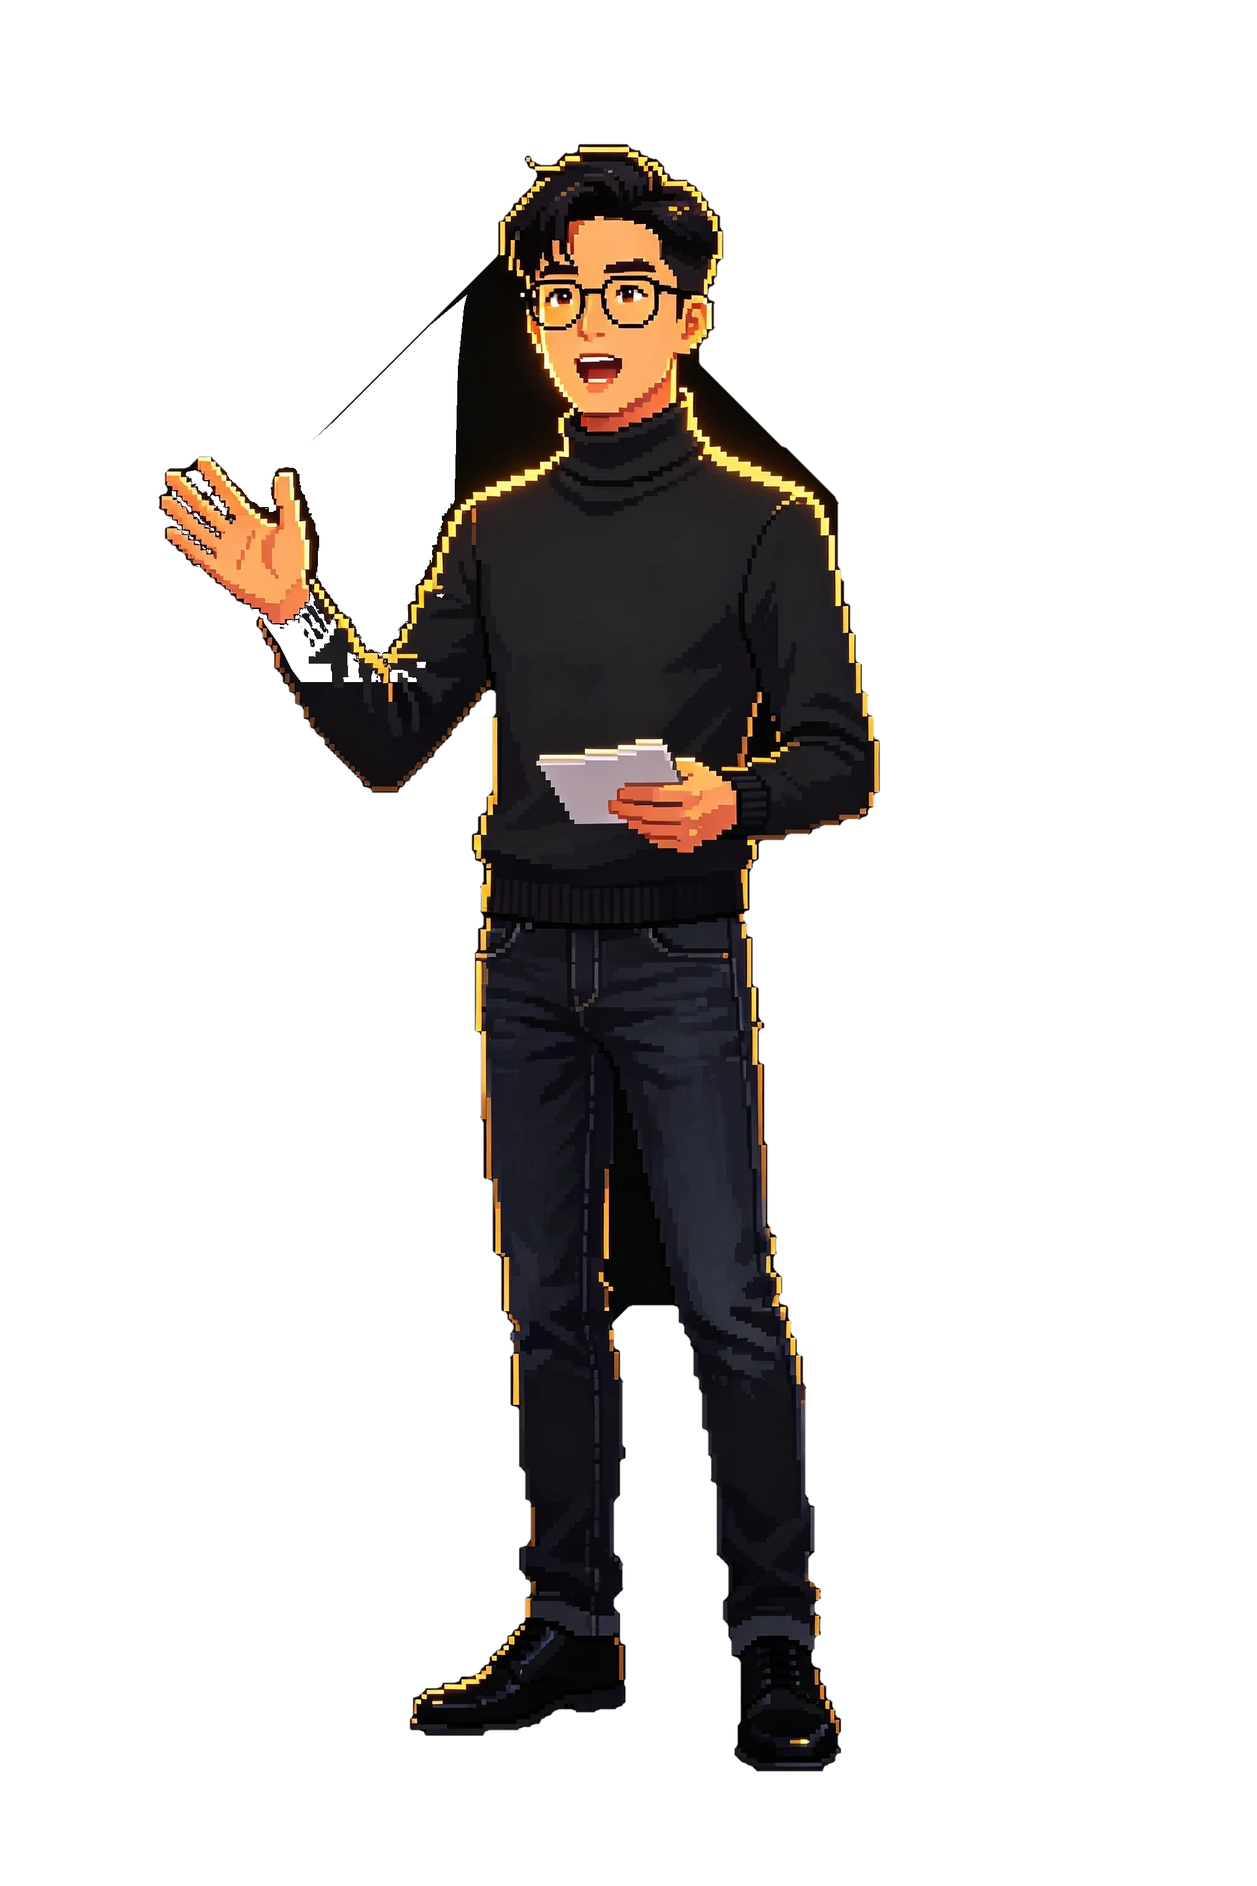
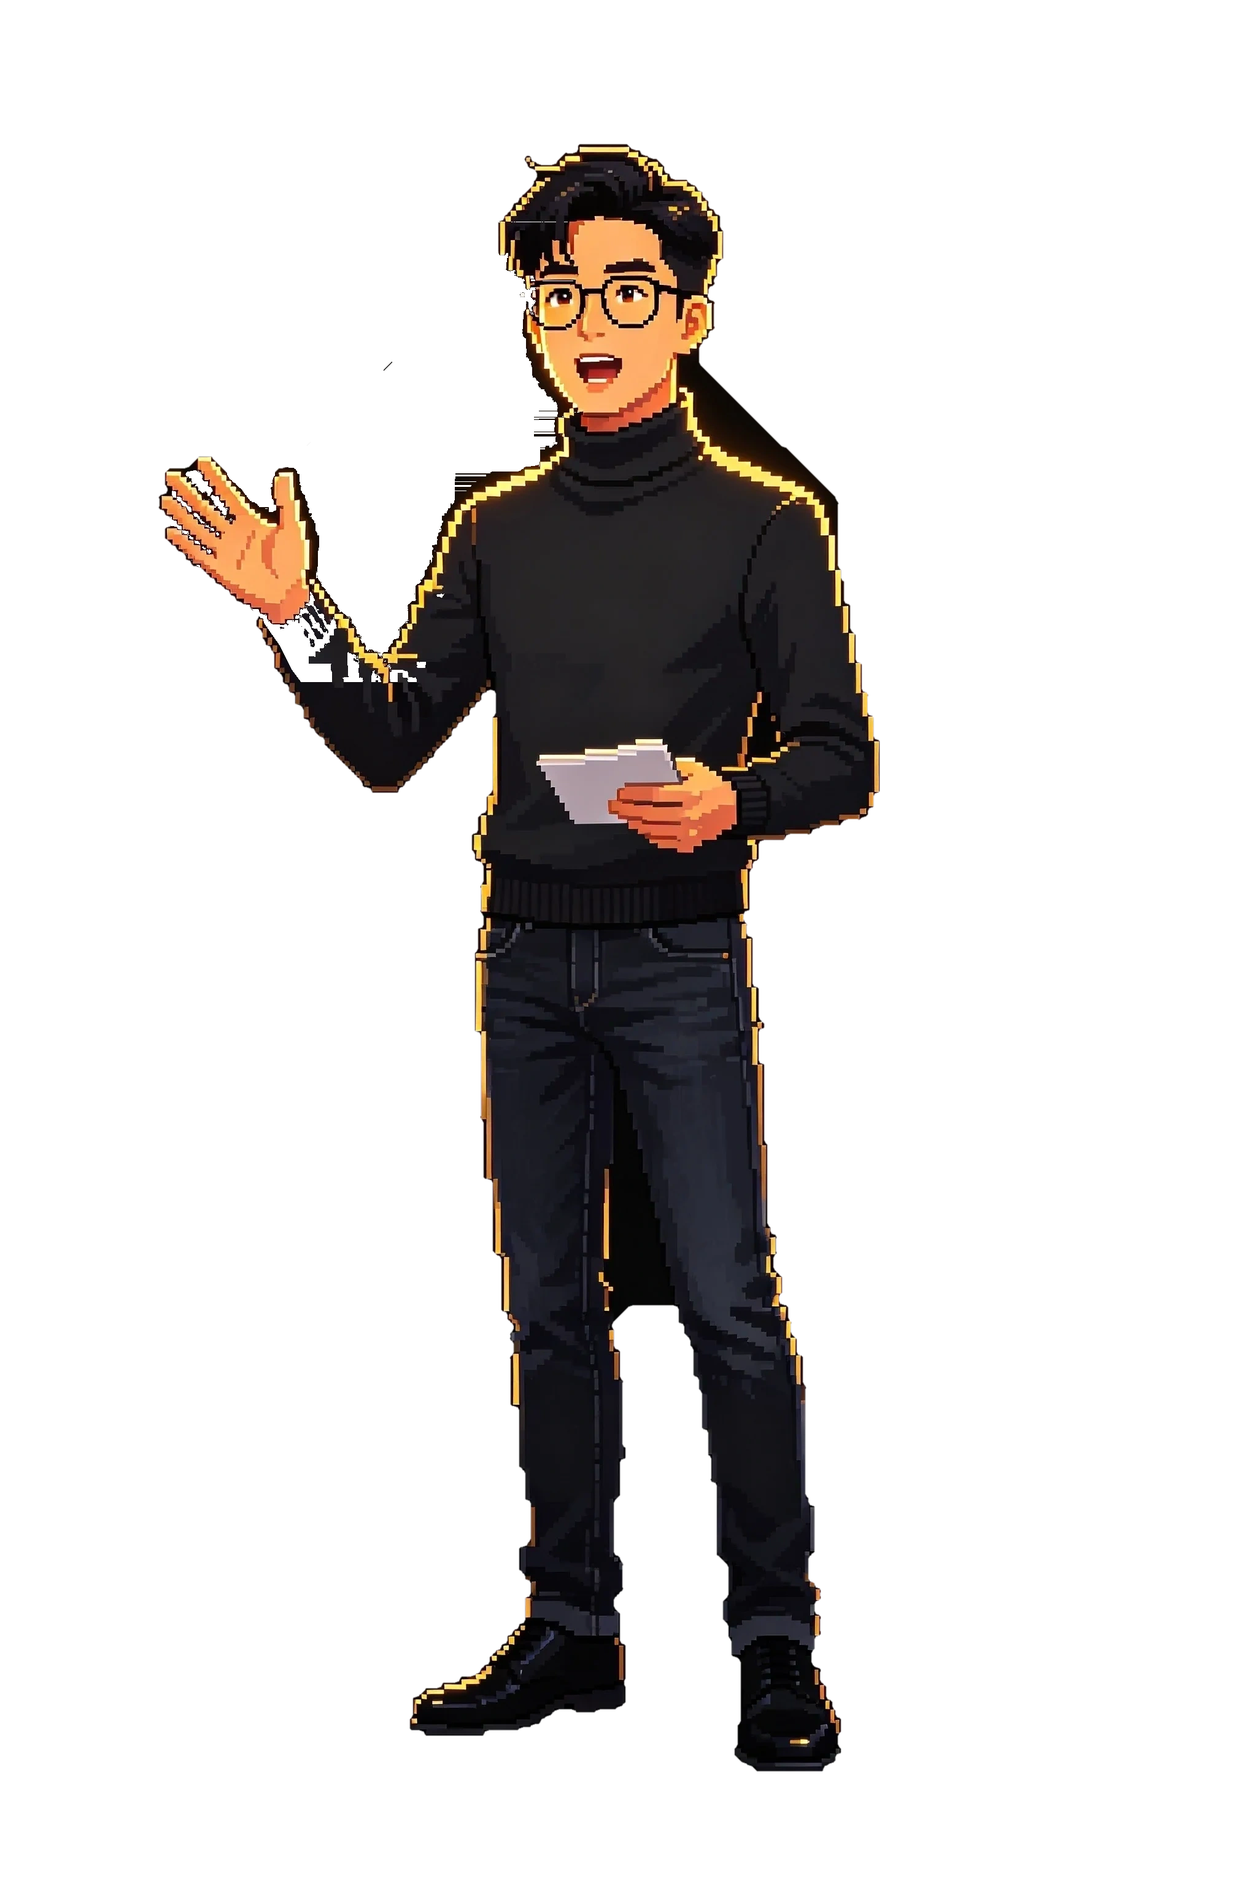
feat: R46 场景视觉多样性——2新场景接线5节点+教师立绘三段过渡+选择关键路径性能+6亿砸地防重入

Changed region(s): [[0.3438, 0.125, 0.4375, 0.25]]

diff --git a/src/scenes/GameScene.js b/src/scenes/GameScene.js
@@ -82,6 +82,10 @@ export class GameScene extends Phaser.Scene {
     street_day:  { tint: 0xffe8c0, tintAlpha: 0.06, rimColor: 0xffcc66, rimAlpha: 0.10, shadowColor: 0x2a1a0a, shadowAlpha: 0.25, shadowScale: 0.9, warmOverlay: 0.04 },
     // 场景变体：巨型体育馆（深蓝夜色+金色舞台光）
     stage_arena: { tint: 0xffc870, tintAlpha: 0.12, rimColor: 0xffaa33, rimAlpha: 0.20, shadowColor: 0x0a0600, shadowAlpha: 0.40, shadowScale: 0.7, warmOverlay: 0.08 },
+    // 场景变体：深夜教室（冷蓝月色，比 classroom 更冷更暗）
+    classroom_night: { tint: 0x8aa0cc, tintAlpha: 0.10, rimColor: 0x6688cc, rimAlpha: 0.12, shadowColor: 0x04060e, shadowAlpha: 0.38, shadowScale: 0.85, warmOverlay: 0.0 },
+    // 场景变体：白天办公室（明亮冷白天光）
+    office_day:  { tint: 0xe8ecf0, tintAlpha: 0.05, rimColor: 0xaaccee, rimAlpha: 0.08, shadowColor: 0x10141c, shadowAlpha: 0.22, shadowScale: 0.9, warmOverlay: 0.02 },
     stage:       { tint: 0xffc870, tintAlpha: 0.12, rimColor: 0xffaa33, rimAlpha: 0.20, shadowColor: 0x0a0600, shadowAlpha: 0.40, shadowScale: 0.7, warmOverlay: 0.08 },
     livestream:  { tint: 0xf0f4ff, tintAlpha: 0.06, rimColor: 0x88ccff, rimAlpha: 0.12, shadowColor: 0x0a0a1a, shadowAlpha: 0.25, shadowScale: 0.9, warmOverlay: 0.03 },
     lab:         { tint: 0xd8e4f0, tintAlpha: 0.04, rimColor: 0x77aadd, rimAlpha: 0.07, shadowColor: 0x081018, shadowAlpha: 0.25, shadowScale: 0.9, warmOverlay: 0.0 },
@@ -229,15 +233,26 @@ export class GameScene extends Phaser.Scene {
     // 2. 直播场景固定立绘
     if (node.sceneType === 'livestream') return 'livestream';
     // 3. 阶段推断：简化版（不查 state，仅按节点 ID 归属阶段）
+    // teacher 阶段不做年龄覆盖（与 _inferMood 三段逻辑一致，用场景姿态即黑毛衣青年组）
     const stage = getStageByNodeId(nodeId);
     if (stage) {
-      const earlyStages = new Set(['youth', 'teacher']);
+      const earlyStages = new Set(['youth']);
       const middleStages = new Set(['startup', 'dark', 'repay', 'reborn']);
       if (earlyStages.has(stage.id)) return 'young';
       if (middleStages.has(stage.id)) return 'middle';
     }
-    // 4. 默认 standing
-    return 'standing';
+    // 4. 与 _renderNode 的 poseMap 保持一致，避免预读姿态与实际渲染姿态错位
+    const poseMap = {
+      'classroom': 'sitting', 'lecture': 'speaking', 'office': 'sitting',
+      'stage': 'speaking', 'livestream': 'sitting', 'lab': 'standing',
+      'podcast': 'sitting', 'street': 'standing', 'ending': 'standing',
+      'fridge_smash': 'angry', 'talkshow': 'speaking', 'court': 'standing',
+      'office_empty': 'sitting', 'office_dark': 'sitting', 'street_night': 'standing',
+      'office_busy': 'sitting', 'livestream_first': 'sitting',
+      'street_day': 'standing', 'stage_arena': 'speaking',
+      'classroom_night': 'sitting', 'office_day': 'sitting'
+    };
+    return poseMap[node.sceneType] || 'standing';
   }
 
   init(data) {
@@ -937,7 +952,8 @@ export class GameScene extends Phaser.Scene {
       // 场景变体沿用基础场景的姿态
       'office_empty': 'sitting', 'office_dark': 'sitting', 'street_night': 'standing',
       'office_busy': 'sitting', 'livestream_first': 'sitting',
-      'street_day': 'standing', 'stage_arena': 'speaking'
+      'street_day': 'standing', 'stage_arena': 'speaking',
+      'classroom_night': 'sitting', 'office_day': 'sitting'
     };
     const pose = poseMap[node.sceneType] || 'standing';
     const mood = this._inferMood(node);
@@ -1229,8 +1245,11 @@ export class GameScene extends Phaser.Scene {
     // 白闪后 100ms，红色巨号数字从屏幕顶部砸下，落地触发"砸地震波"四维冲击
     if (nodeId === 'act6_night') {
       this.time.delayedCall(100, () => {
+        // 防御：清理可能的残留元素（scene 异常重启/DOM 未随 shutdown 清理时避免数字叠加）
+        document.querySelectorAll('[data-killer-moment], .ui-killer-moment-ring').forEach(el => el.remove());
         const numEl = document.createElement('div');
         numEl.className = 'ui-killer-moment-number';
+        numEl.setAttribute('data-killer-moment', 'debt-600m'); // 回归测试可定位标识
         numEl.textContent = '¥600,000,000';
         numEl.style.cssText = [
           'position:fixed', 'top:-120px', 'left:50%',
@@ -1293,8 +1312,8 @@ export class GameScene extends Phaser.Scene {
           });
         });
 
-        // 落地后 1.5s 淡出移除（从落地时刻算起，即 500ms + 1500ms = 2000ms）
-        this.time.delayedCall(2000, () => {
+        // 落地后悬停 2.5s 再淡出（评委 10 分钟演示内可充分看清数字；从落地时刻算起，即 500ms + 2500ms = 3000ms）
+        this.time.delayedCall(3000, () => {
           if (!numEl.parentNode) return;
           numEl.style.transition = 'opacity 0.3s';
           numEl.style.opacity = '0';
@@ -1880,11 +1899,13 @@ export class GameScene extends Phaser.Scene {
     // 2. 直播/卖货场景固定使用直播立绘
     if (node.sceneType === 'livestream') return 'livestream';
 
-    // 3. 根据阶段推断年龄立绘：早期用 young，中后期用 middle
+    // 3. 根据阶段推断年龄立绘：youth 少年 → teacher 黑毛衣青年（默认 pose 组）→ startup+ 中年
     const stage = getStageByNodeId(this.state.currentNode);
     if (stage) {
-      // startup(锤子科技 2012-2018) 主角已 40+ 岁，应归中年组，原归入 earlyStages 会导致该阶段全程显示少年立绘
-      const earlyStages = new Set(['youth', 'teacher']);
+      // 三段年龄过渡：youth 用 young 少年立绘；
+      // teacher 不做年龄覆盖（落到场景 poseMap/情绪姿态，即黑毛衣青年组，作为少年→中年的过渡）；
+      // startup(锤子科技 2012-2018) 及之后主角已 40+ 岁，用 middle 中年立绘
+      const earlyStages = new Set(['youth']);
       const middleStages = new Set(['startup', 'dark', 'repay', 'reborn']);
       if (earlyStages.has(stage.id)) {
         // 年轻阶段：如果没有显式 mood 覆盖情绪，用 young 立绘

diff --git a/src/systems/ChoiceSystem.js b/src/systems/ChoiceSystem.js
@@ -239,6 +239,9 @@ export class ChoiceSystem {
       window.addEventListener('resize', this._resizeHandler);
     }
 
+    // 缓存本轮按钮引用，避免 click/keydown 处理器中重复 querySelectorAll（点击响应关键路径优化）
+    this._currentBtns = [];
+
     choices.forEach((choice, i) => {
       const state = this.scene.state || {};
       const { locked, hint: lockHint } = this._getChoiceLock(choice, state, choices);
@@ -299,11 +302,15 @@ export class ChoiceSystem {
           }
           if (this._choiceLock) return;
           this._choiceLock = true;
-          this.el.querySelectorAll('.ui-choice-btn').forEach(b => b.disabled = true);
+          // 关键反馈同步完成（<16ms）：禁用全部按钮 + 选中锁定态 + 触感震动
+          this._currentBtns.forEach(b => b.disabled = true);
           this._markSelected(btn);
-          this._createRipple(btn, event);
           if (this.scene && typeof this.scene.vibrate === 'function') this.scene.vibrate(20);
-          this._triggerChoiceFlash();
+          // 非关键视觉反馈（水波纹/全屏闪光）推迟到下一帧，不阻塞关键路径
+          requestAnimationFrame(() => {
+            this._createRipple(btn, event);
+            this._triggerChoiceFlash();
+          });
           if (onChoice) onChoice(choice);
         });
 
@@ -351,6 +358,7 @@ export class ChoiceSystem {
       }
 
       this.el.appendChild(btn);
+      this._currentBtns.push(btn);
     });
 
     // 数字键快捷选择（1-9）— 与 A 自动播放、S 速度切换等全局快捷键解耦
@@ -369,11 +377,11 @@ export class ChoiceSystem {
         const { locked } = this._getChoiceLock(c, state, choices);
         if (!locked && onChoice) {
           this._choiceLock = true;
-          this.el.querySelectorAll('.ui-choice-btn').forEach(b => b.disabled = true);
-          const _selectedBtn = this.el.querySelectorAll('.ui-choice-btn')[idx];
+          this._currentBtns.forEach(b => b.disabled = true);
+          const _selectedBtn = this._currentBtns[idx];
           if (_selectedBtn) this._markSelected(_selectedBtn);
-          this._triggerChoiceFlash();
           if (this.scene && typeof this.scene.vibrate === 'function') this.scene.vibrate(20);
+          requestAnimationFrame(() => this._triggerChoiceFlash());
           onChoice(c);
         }
       }
@@ -524,7 +532,10 @@ export class ChoiceSystem {
    * @param {HTMLElement} selectedBtn 被选中的按钮元素
    */
   _markSelected(selectedBtn) {
-    const allBtns = this.el.querySelectorAll('.ui-choice-btn');
+    // 优先用缓存的按钮引用（避免重复 querySelectorAll），缓存不可用时兜底查询
+    const allBtns = (this._currentBtns && this._currentBtns.length)
+      ? this._currentBtns
+      : this.el.querySelectorAll('.ui-choice-btn');
     allBtns.forEach(b => {
       if (b === selectedBtn) {
         b.classList.add('selected');
@@ -555,6 +566,7 @@ export class ChoiceSystem {
       this._leaveTimer = null;
       this.el.classList.remove('visible', 'leaving');
       this.el.innerHTML = '';
+      this._currentBtns = [];
       if (this.scene.dialog && this.scene.dialog.notifyChoicesVisible) {
         this.scene.dialog.notifyChoicesVisible(false);
       }

diff --git a/src/config.js b/src/config.js
@@ -158,7 +158,9 @@ export const SCENE_TYPES = {
   OFFICE_BUSY: 'office_busy',       // 白天忙碌创业办公室（创业上升期）
   LIVESTREAM_FIRST: 'livestream_first', // 首播简陋直播间（首播青涩期）
   STREET_DAY: 'street_day',         // 90年代小城白天老街（延边摆摊期）
-  STAGE_ARENA: 'stage_arena'        // 巨型体育馆（鸟巢TNT发布会）
+  STAGE_ARENA: 'stage_arena',       // 巨型体育馆（鸟巢TNT发布会）
+  CLASSROOM_NIGHT: 'classroom_night', // 深夜教室（苦学/夜读期）
+  OFFICE_DAY: 'office_day'          // 白天明亮办公室（新东方/日常办公期）
 };
 
 /**
@@ -188,6 +190,8 @@ export const SCENE_ASSETS = [
   { key: 'bg-livestream_first', url: 'assets/characters/scene-livestream_first-v2.webp', type: 'livestream_first' },
   { key: 'bg-street_day',    url: 'assets/characters/scene-street_day-v2.webp',    type: 'street_day' },
   { key: 'bg-stage_arena',   url: 'assets/characters/scene-stage_arena-v2.webp',   type: 'stage_arena' },
+  { key: 'bg-classroom_night', url: 'assets/characters/scene-classroom_night-v2.webp', type: 'classroom_night' },
+  { key: 'bg-office_day',    url: 'assets/characters/scene-office_day-v2.webp',    type: 'office_day' },
   // 结局专属插图
   { key: 'bg-ending-legend',   url: 'assets/characters/ending-legend-v2.webp',   type: 'ending-legend' },
   { key: 'bg-ending-phoenix',  url: 'assets/characters/ending-phoenix-v2.webp',  type: 'ending-phoenix' },

diff --git a/src/data/story/11_act8.js b/src/data/story/11_act8.js
@@ -32,7 +32,7 @@ export const NODES = {
   act8_team_build: {
     act: '第十八章',
     actSub: '组建AR团队 · 从零开始 2022',
-    sceneType: SCENE_TYPES.OFFICE,
+    sceneType: SCENE_TYPES.OFFICE_DAY,
     character: '老罗',
     text: `你开始组建AR团队。但这次跟锤子不一样——你没有从粉丝里拉人，而是从大厂挖人。你挖来了前苹果的工程师、前Meta的AR研究员、前华为的光学专家。每次面试你都会问同一个问题："你相信AR是未来吗？"如果对方犹豫，你就不要。你要的是信徒，不是员工。有人劝你："老罗，你这是在组建宗教，不是公司。"你说："<b>改变世界的事，不信的人做不了。</b>"团队从5个人慢慢扩展到50个人，办公室从一间小会议室搬到了整层楼，白板上写满了技术方案，工位上堆满了原型机和测试设备。你看着这群人，心想：这一次，我不能再让他们失望了。但"这一次"这三个字，你已经说了太多次了——每一次说的时候你都信，每一次信的时候你都输。你开始害怕的不是失败本身，而是"再一次"这个前缀：再一次让相信你的人失望，再一次亲手签下裁员名单，再一次在深夜的办公室里对着天花板发呆。`,
     choices: [

diff --git a/src/data/story/10_act7.js b/src/data/story/10_act7.js
@@ -165,7 +165,7 @@ export const NODES = {
   act7_contract: {
     act: '第十七章',
     actSub: '签约抖音 · 谈判过程 2020',
-    sceneType: SCENE_TYPES.OFFICE,
+    sceneType: SCENE_TYPES.OFFICE_DAY,
     character: '老罗',
     text: `抖音团队的谈判代表坐在你对面，西装笔挺，笑容职业。他们开出的条件很诱人：签约费6000万，这是抖音有史以来给直播主播开出的最高价。但条件也很明确——你必须独家在抖音直播，每周至少3场，每场不少于3小时。你看着合同上的数字，心里五味杂陈。从做手机到卖货，这落差比延边到北京还大。你的律师在旁边小声说："条款没问题，签吧。"你拿起笔，手悬在半空——这一签，你就从"罗老师"变成"罗主播"了。名字只差一个字，但人生的落差是整个太平洋。但你又想：名字变了又怎样？人还是那个人。<b>能弯下腰的人，才站得起来。</b>况且，这6000万不是给你的，是给那6亿债务的——每一分钱都是一块砖，帮你把压在身上的山一块一块搬走。你深吸一口气，笔尖落在了纸上。`,
     choices: [

diff --git a/index.html b/index.html
@@ -1499,6 +1499,20 @@
       color: var(--color-gold);
     }
 
+    /* 固定按钮防溢出：统一 border-box 盒模型 + 内容裁剪；
+       图标按钮清除浏览器默认 padding，确保 44×44 热区内文字/图标不溢出 */
+    .ui-sound-toggle,
+    .ui-menu-toggle,
+    .ui-narration-toggle,
+    .ui-voice-toggle {
+      box-sizing: border-box;
+      overflow: hidden;
+    }
+    .ui-sound-toggle,
+    .ui-menu-toggle {
+      padding: 0;
+    }
+
     /* === Talent Selection === */
     .ui-talent-overlay {
       position: fixed;
@@ -5885,7 +5899,7 @@
         <div class="ui-intro-line" id="ui-intro-line2"></div>
         <div class="ui-intro-line" id="ui-intro-line3"></div>
       </div>
-      <div class="ui-intro-skip-hint" id="ui-intro-skip-hint">点击任意处继续 · 按空格跳过</div>
+      <div class="ui-intro-skip-hint" id="ui-intro-skip-hint">点击任意处或按空格跳过</div>
       <div class="ui-intro-fade" id="ui-intro-fade"></div>
     </div>
 

diff --git a/src/systems/PixelRenderer.js b/src/systems/PixelRenderer.js
@@ -67,7 +67,8 @@ const SCENE_PARTICLE_MODES = {
   classroom: 'dust', lecture: 'dust', podcast: 'dust', ending: 'sparkle',
   office: 'dust_dim', office_empty: 'dust_dim', lab: 'dust_dim', court: 'dust_dim',
   street: 'dust_dim', street_night: 'dust_dim',
-  office_busy: 'dust_bright', street_day: 'dust_bright',
+  office_busy: 'dust_bright', street_day: 'dust_bright', office_day: 'dust_bright',
+  classroom_night: 'dust_dim',
   office_dark: 'rain',
   stage: 'sparkle', stage_arena: 'sparkle', talkshow: 'sparkle', fridge_smash: 'sparkle',
   livestream: 'float_side', livestream_first: 'float_side'
@@ -713,7 +714,9 @@ export class PixelRenderer {
       office_busy: 'bg-office_busy',
       livestream_first: 'bg-livestream_first',
       street_day: 'bg-street_day',
-      stage_arena: 'bg-stage_arena'
+      stage_arena: 'bg-stage_arena',
+      classroom_night: 'bg-classroom_night',
+      office_day: 'bg-office_day'
     };
 
     // 1. 检查预加载纹理

diff --git a/src/data/story/8_act5.js b/src/data/story/8_act5.js
@@ -139,7 +139,7 @@ export const NODES = {
   act5_chengdu: {
     act: '第十三章',
     actSub: '成都10亿融资 · 迁总部的抉择 2017',
-    sceneType: SCENE_TYPES.OFFICE,
+    sceneType: SCENE_TYPES.OFFICE_DAY,
     character: '小罗',
     text: `成都市政府伸出橄榄枝：10亿融资，条件是总部迁到成都。10亿——这笔钱足够你做TNT，做你想做的任何产品。\n\n但条件是离开你熟悉的一切——团队、供应链、你在这个城市里花了三年织起的那张网。你想起唐岩当年凑的900万，想起阿里弃投时净资产只剩20万的日子——那些绝望你不想再经历第二次。\n\n可你也清楚，天下没有白给的10亿，每一分钱都有代价。<b>10亿不是救命稻草，是金色的锁链——你以为挣脱了困境，其实是换了一座牢，只是这座牢镀了金，亮得让你以为那是光。</b>`,
     choices: [

diff --git a/src/scenes/IntroScene.js b/src/scenes/IntroScene.js
@@ -317,12 +317,17 @@ export class IntroScene extends Phaser.Scene {
 
   _drawStars(g, t) {
     const fadeIn = this._reducedMotion ? 1 : Math.min(1, t / 800);
+    // 星光齐明：终局波前到齐后，全星场在 900ms 内亮度抬升 40%，整个星空参与高潮
+    let swell = 1;
+    if (!this._reducedMotion && t >= FINALE.at + FINALE.waveMs) {
+      swell = 1 + Math.min(1, (t - FINALE.at - FINALE.waveMs) / 900) * 0.4;
+    }
     for (const s of this._stars) {
-      let alpha = s.base * fadeIn;
+      let alpha = s.base * fadeIn * swell;
       if (s.twinkle && !this._reducedMotion) {
         alpha *= 0.5 + 0.5 * Math.sin(t / 1000 * s.speed * Math.PI + s.phase);
       }
-      g.fillStyle(s.warm ? 0xf0e0b8 : 0xd8dce8, alpha);
+      g.fillStyle(s.warm ? 0xf0e0b8 : 0xd8dce8, Math.min(1, alpha));
       g.fillRect(s.x, s.y, s.size, s.size);
     }
   }

diff --git a/src/data/story/2_act1.js b/src/data/story/2_act1.js
@@ -259,7 +259,7 @@ export const NODES = {
   act1_resign: {
     act: '第三章',
     actSub: '辞职 · 与俞敏洪分道扬镳 2006',
-    sceneType: SCENE_TYPES.OFFICE,
+    sceneType: SCENE_TYPES.OFFICE_DAY,
     character: '小罗',
     text: `你坐在俞敏洪对面，桌上摆着辞职信，白纸黑字，像一张判决书。你听见自己的声音从喉咙里挤出来："俞老师，我要辞职。"三个字像三颗钉子，一颗一颗钉进空气里。办公室的空调嗡嗡作响，那一刻的沉默比任何回应都响——你能听见自己心跳，能听见窗外长安街上的车流，能听见俞敏洪指尖在桌面上轻轻敲了三下又停住。
 

diff --git a/src/data/story/1_act0.js b/src/data/story/1_act0.js
@@ -230,7 +230,7 @@ export const NODES = {
   act0_gre: {
     act: '第一章',
     actSub: '郊区出租屋 · 自学GRE 2000',
-    sceneType: SCENE_TYPES.CLASSROOM,
+    sceneType: SCENE_TYPES.CLASSROOM_NIGHT,
     character: '小罗',
     text: `2000年，你28岁，回到北京。郊区月租200块的出租屋，墙上发霉，窗户漏风。你买了本GRE红宝书，从第一页开始啃。第一个单词是"abandon"，你盯着它看了三秒，笑了：连红宝书都在劝我放弃。但你翻到了第二页。
 
